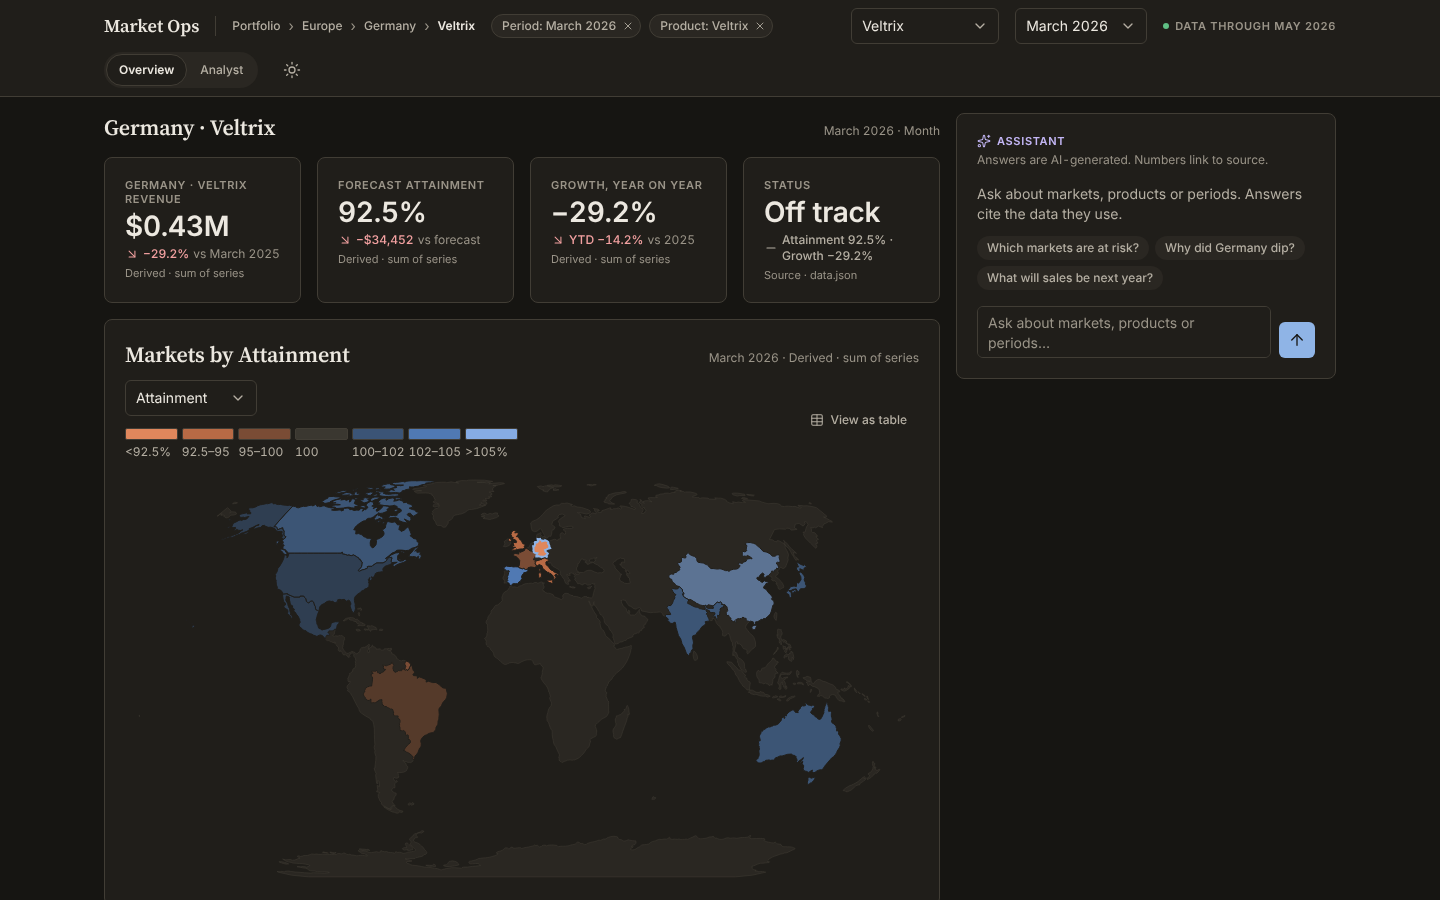
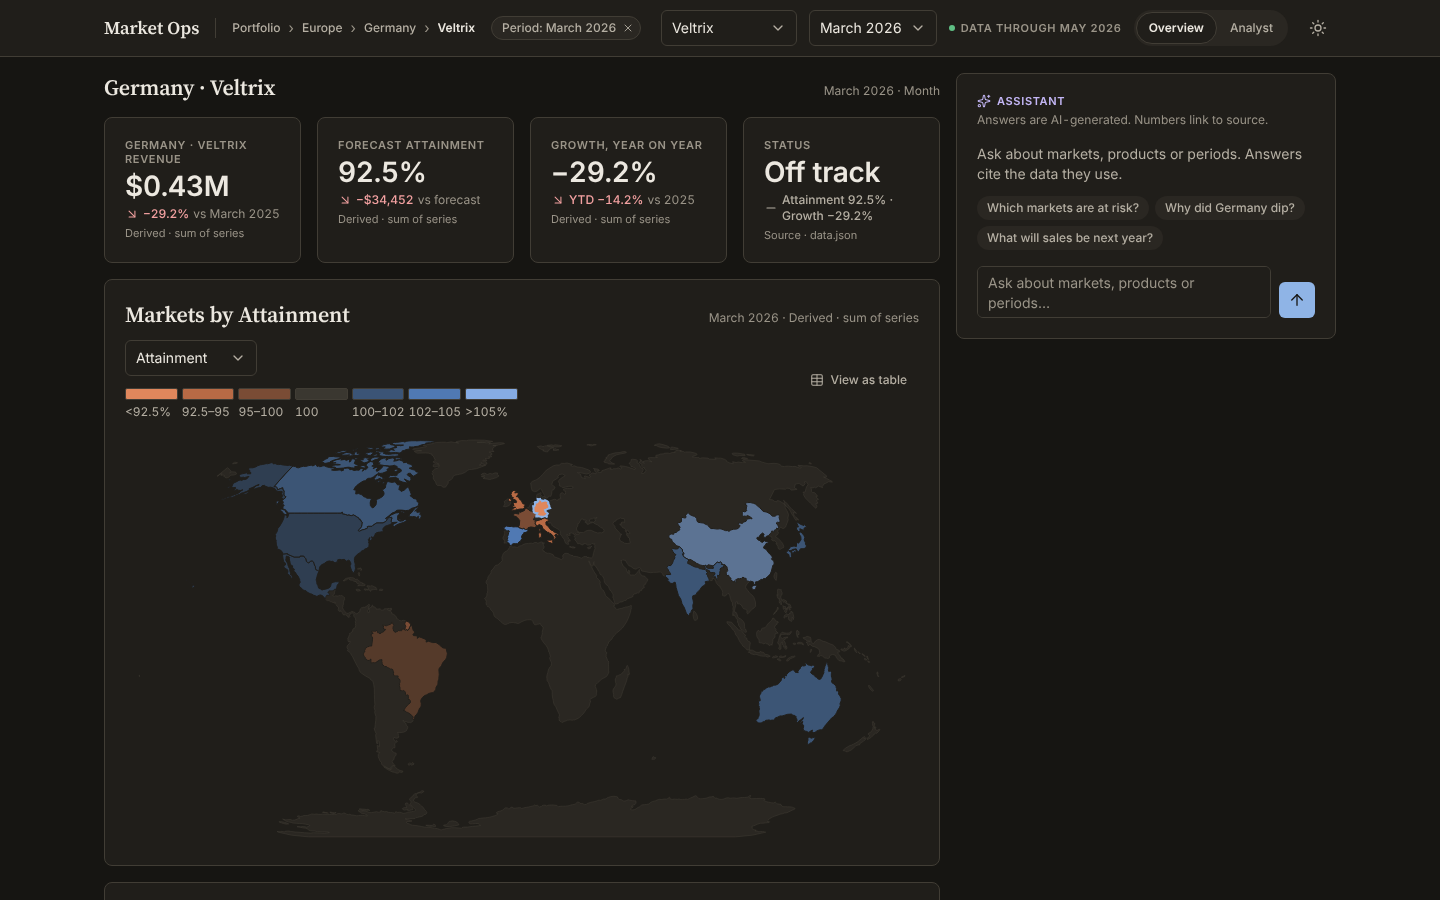
feat(shell): keep the header on one fixed row and truncate the breadcrumb
Drop the product chip (the Product select and the last crumb carry it), let the breadcrumb take the remaining width, and check the header height at 1440 px.

diff --git a/src/features/shell/Header.tsx b/src/features/shell/Header.tsx
@@ -22,12 +22,11 @@ export type HeaderProps = {
   periods: readonly string[];
   latestPeriod: string;
   mode: Mode;
-  productName?: string | undefined;
 };
 
 /** Design-system.md 6.1. Every write goes through setContext. */
 // `period` and `mode` arrive from the server for the first paint; afterwards the URL (ctx) is the source of truth.
-export function Header({ trail, products, periods, latestPeriod, productName }: HeaderProps) {
+export function Header({ trail, products, periods, latestPeriod }: HeaderProps) {
   const { ctx, setContext, isPending } = useConsoleContext();
   const meta = useConsoleMeta();
   // A crumb keeps the current period and mode; its href is the URL setContext would write.
@@ -53,35 +52,39 @@ export function Header({ trail, products, periods, latestPeriod, productName }: 
         data-pending={isPending}
         className="pointer-events-none absolute inset-x-0 bottom-0 h-0.5 bg-accent opacity-0 transition-opacity duration-[var(--dur-fast)] data-[pending=true]:opacity-100"
       />
-      <div className="mx-auto flex min-h-[var(--header-h)] max-w-[var(--page-max)] flex-wrap items-center gap-x-4 gap-y-2 px-[var(--gutter)] py-2">
-        <div className="flex items-center">
-          <h1 className="font-display text-lg leading-6 font-semibold text-ink">Market Ops</h1>
-          <span aria-hidden className="mx-4 h-5 w-px bg-border" />
-          <Breadcrumbs trail={crumbs} onNavigate={(c) => setContext(c)} />
-        </div>
-        <ContextChips
-          period={period}
-          latestPeriod={latestPeriod}
-          productName={productName}
-          onPeriod={(p) => setContext({ period: p as Period })}
-          onClearProduct={() => setContext({ product: undefined })}
-        />
-        <div className="flex-1" />
-        {ctx.market ? (
-          <ProductSelect
-            product={ctx.product}
-            products={products}
-            onChange={(product) => setContext({ product })}
+      {/* One fixed row from 1024 px: the left group takes the slack and truncates, the right controls never wrap. Below that the header may wrap. */}
+      <div className="mx-auto flex min-h-[var(--header-h)] max-w-[var(--page-max)] flex-wrap items-center gap-x-4 gap-y-2 px-[var(--gutter)] py-2 lg:flex-nowrap">
+        <div className="flex min-w-0 items-center gap-x-4 lg:flex-1">
+          <div className="flex min-w-0 items-center">
+            <h1 className="shrink-0 font-display text-lg leading-6 font-semibold whitespace-nowrap text-ink">
+              Market Ops
+            </h1>
+            <span aria-hidden className="mx-4 h-5 w-px shrink-0 bg-border" />
+            <Breadcrumbs trail={crumbs} onNavigate={(c) => setContext(c)} />
+          </div>
+          <ContextChips
+            period={period}
+            latestPeriod={latestPeriod}
+            onPeriod={(p) => setContext({ period: p as Period })}
           />
-        ) : null}
-        <PeriodSelect
-          period={period}
-          periods={periods}
-          onChange={(p) => setContext({ period: p as Period })}
-        />
-        <DataStamp latestPeriod={latestPeriod} />
-        <ModeSwitch mode={mode} onChange={(m) => setContext({ mode: m })} />
-        <ThemeToggle />
+        </div>
+        <div className="flex shrink-0 items-center gap-x-3">
+          {ctx.market ? (
+            <ProductSelect
+              product={ctx.product}
+              products={products}
+              onChange={(product) => setContext({ product })}
+            />
+          ) : null}
+          <PeriodSelect
+            period={period}
+            periods={periods}
+            onChange={(p) => setContext({ period: p as Period })}
+          />
+          <DataStamp latestPeriod={latestPeriod} />
+          <ModeSwitch mode={mode} onChange={(m) => setContext({ mode: m })} />
+          <ThemeToggle />
+        </div>
       </div>
     </header>
   );

diff --git a/src/features/shell/ContextChips.tsx b/src/features/shell/ContextChips.tsx
@@ -15,15 +15,15 @@ function Chip({
   clearLabel: string;
 }) {
   return (
-    <span className="inline-flex h-[var(--chip-h)] items-center gap-1 rounded-pill border border-border bg-surface-2 pr-1 pl-2.5 text-[length:var(--text-label)] leading-[var(--text-label-lh)] font-medium text-ink-2">
-      <span>
+    <span className="inline-flex h-[var(--chip-h)] min-w-0 items-center gap-1 rounded-pill border border-border bg-surface-2 pr-1 pl-2.5 text-[length:var(--text-label)] leading-[var(--text-label-lh)] font-medium text-ink-2">
+      <span className="truncate" title={`${label}: ${value}`}>
         {label}: {value}
       </span>
       <button
         type="button"
         aria-label={clearLabel}
         onClick={onClear}
-        className="inline-flex size-4 items-center justify-center rounded-pill hover:bg-border hover:text-ink"
+        className="inline-flex size-4 shrink-0 items-center justify-center rounded-pill hover:bg-border hover:text-ink"
       >
         <X aria-hidden className="size-3" strokeWidth={ICON_STROKE} />
       </button>
@@ -34,35 +34,24 @@ function Chip({
 export function ContextChips({
   period,
   latestPeriod,
-  productName,
   onPeriod,
-  onClearProduct,
 }: {
   period: string;
   latestPeriod: string;
-  productName?: string | undefined;
   onPeriod: (p: string) => void;
-  onClearProduct: () => void;
 }) {
+  // Only the period chip lives here: the product is already shown by the Product select and the last crumb.
   // The period chip only appears when the view is off the latest period; clearing returns to it.
   const offLatest = period !== latestPeriod;
-  if (!offLatest && !productName) return null;
+  if (!offLatest) return null;
   return (
-    <div className="flex flex-wrap items-center gap-2">
+    <div className="flex shrink-0 items-center gap-2">
       {offLatest ? (
         <Chip
           label="Period"
           value={formatPeriod(period)}
           clearLabel="Clear period"
           onClear={() => onPeriod(latestPeriod)}
-        />
-      ) : null}
-      {productName ? (
-        <Chip
-          label="Product"
-          value={productName}
-          clearLabel="Clear product"
-          onClear={onClearProduct}
         />
       ) : null}
     </div>

diff --git a/src/features/shell/Breadcrumbs.tsx b/src/features/shell/Breadcrumbs.tsx
@@ -15,27 +15,32 @@ export function Breadcrumbs({
   onNavigate: (ctx: ContextPatch) => void;
 }) {
   return (
-    <nav aria-label="Drill path" className="min-w-0">
-      <ol className="flex flex-wrap items-center">
+    <nav aria-label="Drill path" className="min-w-0 flex-1">
+      <ol className="flex min-w-0 flex-nowrap items-center">
         {trail.map((crumb, i) => {
           const current = i === trail.length - 1;
           return (
-            <li key={crumb.label} className="flex items-center">
+            <li
+              key={crumb.label}
+              className={cn("flex items-center", current ? "max-w-[60%] shrink-0" : "min-w-0")}
+            >
               {i > 0 ? (
-                <span aria-hidden className="mx-2 text-ink-muted">
+                <span aria-hidden className="mx-2 shrink-0 text-ink-muted">
                   ›
                 </span>
               ) : null}
               {current ? (
                 <span
                   aria-current="page"
-                  className="text-[length:var(--text-label)] leading-[var(--text-label-lh)] font-semibold text-ink"
+                  title={crumb.label}
+                  className="truncate text-[length:var(--text-label)] leading-[var(--text-label-lh)] font-semibold text-ink"
                 >
                   {crumb.label}
                 </span>
               ) : (
                 <Link
                   href={crumb.href}
+                  title={crumb.label}
                   onClick={(e) => {
                     // Modified clicks keep the browser's own behaviour (new tab, new window).
                     if (e.metaKey || e.ctrlKey || e.shiftKey || e.altKey || e.button !== 0) return;
@@ -43,7 +48,7 @@ export function Breadcrumbs({
                     onNavigate(crumb.ctx);
                   }}
                   className={cn(
-                    "text-[length:var(--text-label)] leading-[var(--text-label-lh)] font-medium text-ink-2",
+                    "truncate text-[length:var(--text-label)] leading-[var(--text-label-lh)] font-medium text-ink-2",
                     "underline-offset-2 hover:underline focus-visible:underline",
                   )}
                 >

diff --git a/tests/e2e/slice3.spec.ts b/tests/e2e/slice3.spec.ts
@@ -90,3 +90,33 @@ for (const scheme of ["light", "dark"] as const) {
     await context.close();
   });
 }
+
+test("the header keeps one row and the same height from portfolio to Germany · Veltrix at 1440 px", async ({
+  page,
+}) => {
+  await page.setViewportSize({ width: 1440, height: 900 });
+  const height = async () => (await page.locator("header").boundingBox())!.height;
+
+  await page.goto("/");
+  const portfolio = await height();
+  await page.goto("/?region=eu&market=de&product=veltrix&period=2026-03");
+  await expect(page.getByRole("combobox", { name: "Product" })).toBeVisible();
+  expect(await height()).toBe(portfolio);
+
+  // Every control sits on the same row, and the breadcrumb still ends in the current crumb.
+  const tops = await Promise.all(
+    [
+      page.getByRole("combobox", { name: "Product" }),
+      page.getByRole("combobox", { name: "Period" }),
+      page.getByRole("radiogroup", { name: "View mode" }),
+      page.getByRole("button", { name: /Switch to (dark|light) theme/ }),
+    ].map(async (l) => {
+      const b = (await l.boundingBox())!;
+      return b.y + b.height / 2;
+    }),
+  );
+  expect(Math.max(...tops) - Math.min(...tops)).toBeLessThan(2);
+  await expect(
+    page.getByRole("navigation", { name: "Drill path" }).locator("[aria-current=page]"),
+  ).toBeVisible();
+});

diff --git a/src/app/page.tsx b/src/app/page.tsx
@@ -30,7 +30,6 @@ export default async function Page({ searchParams }: PageProps) {
   const ds = getDataset();
   const ctx = parseContextFromSearchParams(ds, await searchParams);
   const meta = metaFromDataset(ds);
-  const productName = ctx.product ? ds.products.find((p) => p.id === ctx.product)?.name : undefined;
 
   return (
     <ConsoleMetaProvider meta={meta}>
@@ -44,7 +43,6 @@ export default async function Page({ searchParams }: PageProps) {
               periods={ds.meta.periods}
               latestPeriod={ds.meta.latestPeriod}
               mode={ctx.mode}
-              productName={productName}
             />
           }
           dashboard={

diff --git a/src/features/shell/ProductSelect.tsx b/src/features/shell/ProductSelect.tsx
@@ -24,7 +24,7 @@ export function ProductSelect({
 }) {
   return (
     <Select value={product ?? ALL} onValueChange={(v) => onChange(v === ALL ? undefined : v)}>
-      <SelectTrigger aria-label="Product" className="min-w-[148px]">
+      <SelectTrigger aria-label="Product" className="min-w-[136px]">
         <SelectValue />
       </SelectTrigger>
       <SelectContent>

diff --git a/src/features/shell/PeriodSelect.tsx b/src/features/shell/PeriodSelect.tsx
@@ -21,7 +21,7 @@ export function PeriodSelect({
   const newestFirst = [...periods].reverse();
   return (
     <Select value={period} onValueChange={onChange}>
-      <SelectTrigger aria-label="Period" className="min-w-[132px]">
+      <SelectTrigger aria-label="Period" className="min-w-[120px]">
         <SelectValue />
       </SelectTrigger>
       <SelectContent>

diff --git a/docs/specs/slice-03-drill-share-history.md b/docs/specs/slice-03-drill-share-history.md
@@ -7,8 +7,9 @@ Every navigation writes Context through `setContext`, the server page re-renders
 
 ## 2. Files
 - `src/features/shell/ProductSelect.tsx` (client): shadcn Select labelled "Product", options "All products" + the five products, shown in the header only when `ctx.market` is set; writes `setContext({product})` or clears it.
+- `src/features/shell/Header.tsx`: one fixed row from 1024 px up (never wraps; below 1024 px it may wrap). The wordmark and right-hand controls (Product, Period, data stamp, mode switch, theme toggle) never shrink or wrap; the breadcrumb takes the remaining width and truncates with an ellipsis, each crumb carrying a `title` with its full name. Header height is identical at the portfolio and at Germany · Veltrix.
 - `src/features/shell/Breadcrumbs.tsx`: crumbs from `breadcrumbTrail`; each non-current crumb is a `<Link href>` built by `hrefFor(partialCtx)` (a helper in `src/lib/context` that serialises a Context to a URL with the same parsers) so they are real links (middle-click works) and also call `setContext` on click for client navigation.
-- `src/features/shell/ContextChips.tsx`: `Period: May 2026 ×` (clear → latest), `Product: Veltrix ×` (clear → undefined). The period chip is hidden when period is latest.
+- `src/features/shell/ContextChips.tsx`: `Period: May 2026 ×` (clear → latest), hidden when period is latest. There is no product chip: the Product select ("All products" clears it) and the last breadcrumb already show it.
 - `src/lib/context/useConsoleContext.ts`: implement `history` semantics exactly as architecture.md §5; use nuqs `shallow: false` so the server component re-renders with the new searchParams; `startTransition` around writes; expose `isPending` for a 2 px progress bar under the header (`--accent`, visible while pending, `aria-hidden`).
 - `src/features/overview/Overview.tsx`: the title row above the tiles reads `entityName` as `--text-title` plus a caption `${formatPeriod(period)} · ${basisLabel}`; the map keeps all 13 markets but highlights the selected one and the markets of the selected region (others at 60 % opacity via a `data-dim` attribute, never below 3:1 for the stroke).
 - `src/app/page.tsx`: `export const dynamic = "force-dynamic"` is **not** needed; searchParams already opt the page into dynamic rendering. Ensure `generateMetadata` sets `<title>` to `${entityName} · ${formatPeriod(period)} · Market Ops`.
@@ -16,7 +17,7 @@ Every navigation writes Context through `setContext`, the server page re-renders
 ## 3. Tests first
 - `tests/unit/href.test.ts`: `hrefFor({region:"eu", market:"de", period:"2026-03", mode:"analyst"})` → `/?region=eu&market=de&period=2026-03&mode=analyst` (defaults omitted; key order fixed as region, market, product, period, mode, metric, basis, cite, facts).
 - `src/features/shell/Breadcrumbs.stories.tsx` (extend the slice 0 Header stories file if the component is only rendered there): story `Germany`. Play: three items, the first two as links with the right hrefs, the last with `aria-current="page"`.
-- `tests/e2e/slice3.spec.ts`: exactly the six E2E criteria from user-flows.md slice 3 (map click → URL and breadcrumb and `$1.68M`; Veltrix select → `product=veltrix` and document title contains "Germany · Veltrix"; deep link renders all state; Back ×2 and Forward; Portfolio breadcrumb keeps `mode=analyst`; plus: the period chip appears when period ≠ latest and clearing it removes `period` from the URL).
+- `tests/e2e/slice3.spec.ts`: exactly the six E2E criteria from user-flows.md slice 3 (map click → URL and breadcrumb and `$1.68M`; Veltrix select → `product=veltrix` and document title contains "Germany · Veltrix"; deep link renders all state; Back ×2 and Forward; Portfolio breadcrumb keeps `mode=analyst`; plus: the period chip appears when period ≠ latest and clearing it removes `period` from the URL; plus a 1440 px check that the header height is the same at the portfolio and at Germany · Veltrix and its controls share one row).
 
 ## 4. Done when
 Green; a short screen recording or three screenshots (portfolio, Germany, Germany · Veltrix · Mar 2026) in the report.

diff --git a/docs/design-system.md b/docs/design-system.md
@@ -255,10 +255,12 @@ Every component gets a visible heading in the preview and a story in Storybook i
 
 Full-width bar, background `--surface`, bottom border, height 56 px (Overview) / 48 px (Analyst), content centred to the 1280 px column.
 
+The header is one fixed row from 1024 px up and never changes height with the drill. The wordmark and the controls on the right never shrink or wrap; the breadcrumb takes the remaining width and truncates with an ellipsis, each crumb exposing its full name as a `title`.
+
 Left to right:
 1. Wordmark: "Market Ops" in `--font-display` 18 px 600, colour `--ink`. Then a 1 px vertical rule 20 px tall in `--border`, 16 px margins.
 2. Breadcrumbs: `Portfolio › Europe › Germany`. Each crumb is a link in `--text-label` weight 500 colour `--ink-2`, underline on hover and focus; the current crumb (Germany) is `--ink` weight 600 and not a link. Separator is the `›` character in `--ink-muted` with 8 px margins. Wrap in `<nav aria-label="Drill path">` with an `<ol>`; current crumb has `aria-current="page"`.
-3. Active-context chips immediately after the crumbs, 8 px gap: `Period: May 2026 ×` and `Product: All`. Chip style: height `--chip-h`, radius pill, background `--surface-2`, border `--border`, text `--text-label` `--ink-2`, the `×` is a 16 px button with `aria-label="Clear period"`. Keyboard focusable.
+3. Active-context chip immediately after the crumbs: `Period: May 2026 ×`, shown only when the period is not the latest. There is no product chip; the Product select and the last crumb carry it. Chip style: height `--chip-h`, radius pill, background `--surface-2`, border `--border`, text `--text-label` `--ink-2`, the `×` is a 16 px button with `aria-label="Clear period"`. Keyboard focusable.
 4. Spacer (`flex: 1`).
 5. Data stamp: caption text `DATA THROUGH MAY 2026` in `--ink-muted`, with a 6 px `--ok-mark` dot before it (decorative, `aria-hidden`). Wrap: `<span>` with `title="Source: data.json, latest period 2026-05"`.
 6. Mode switch: segmented control with two options `Overview` | `Analyst`. Height `--control-h`, radius pill, background `--surface-2`, 2 px inner padding. Selected segment: background `--surface`, text `--ink` 600, border `--border`. Unselected: text `--ink-2`. Implement as `<div role="radiogroup" aria-label="View mode">` with two `<button role="radio" aria-checked>`; arrow keys move selection. This control is wired to `html[data-density]` in the preview.
